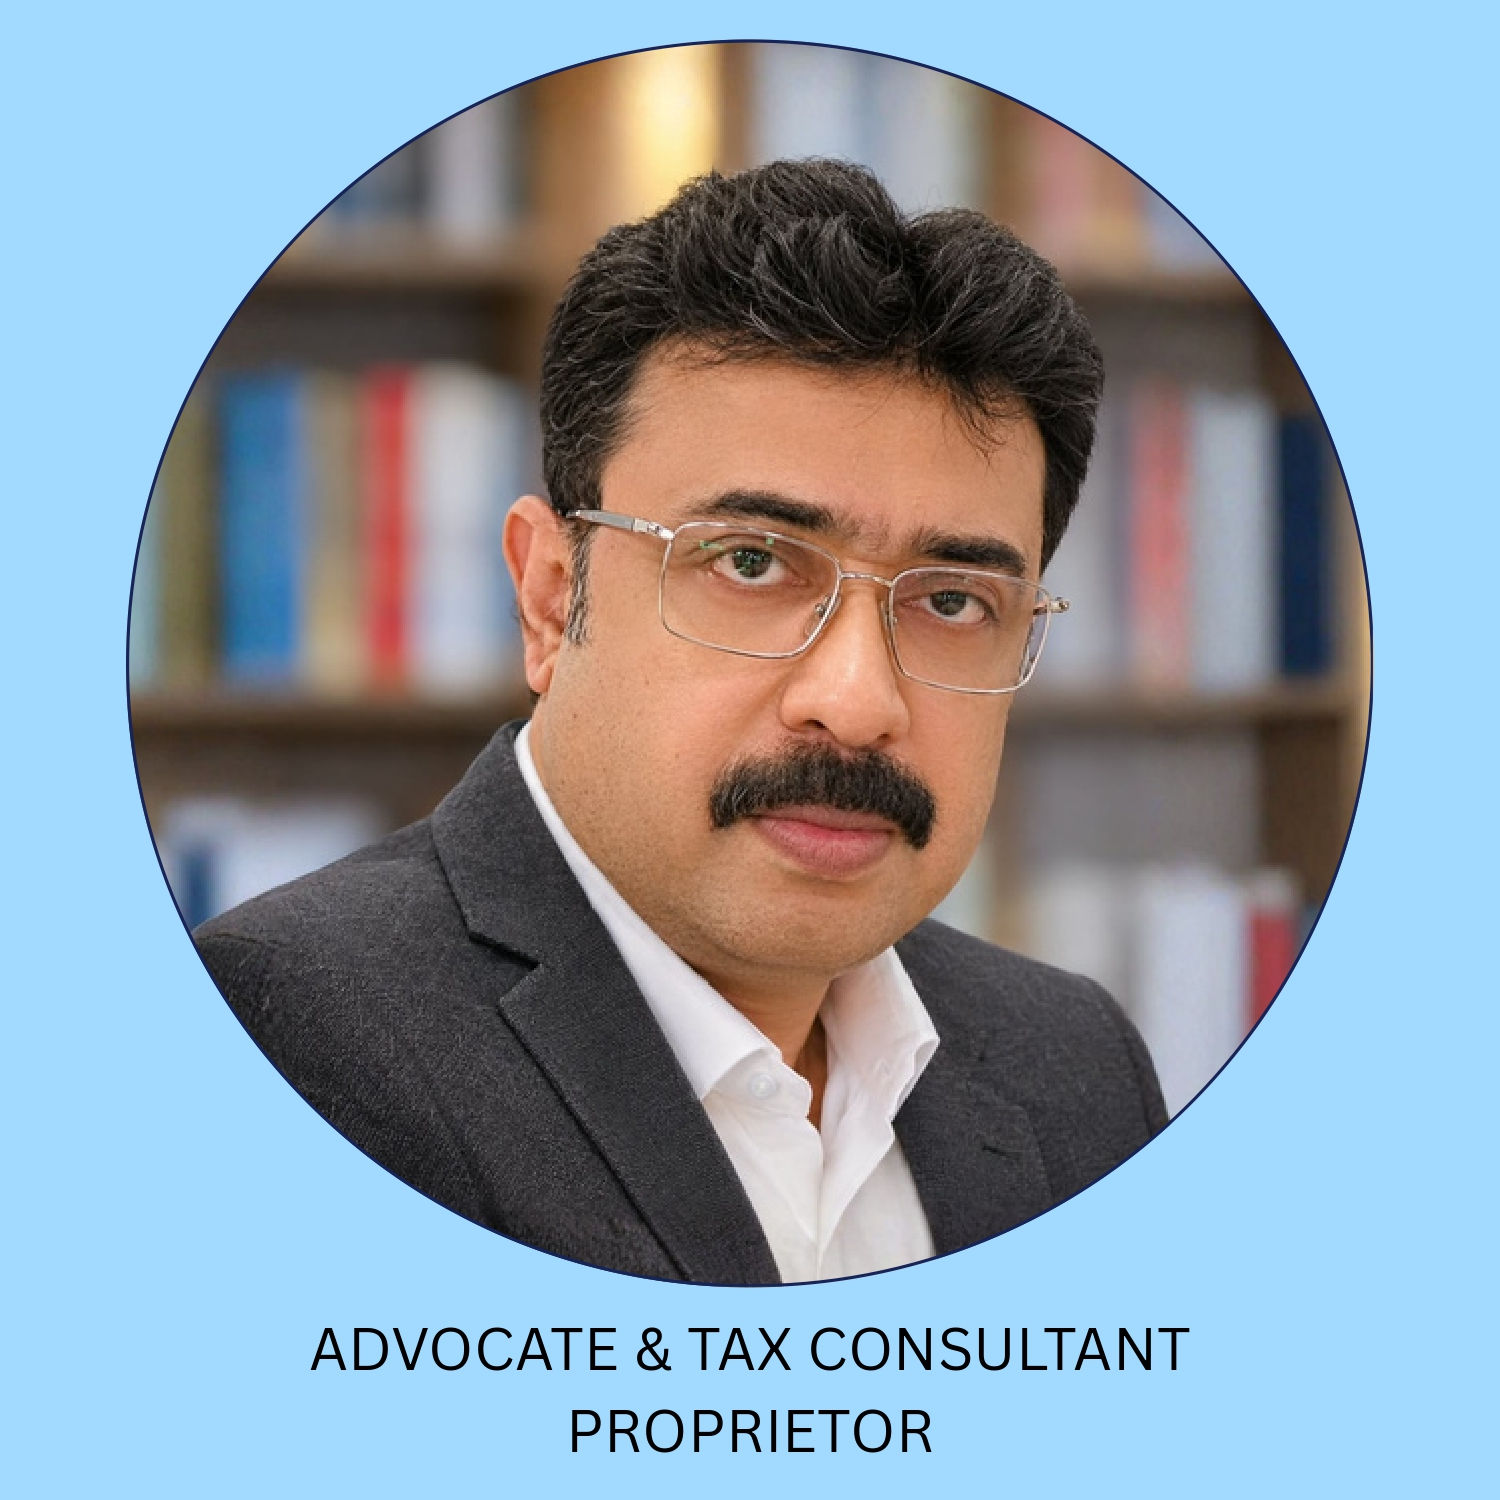
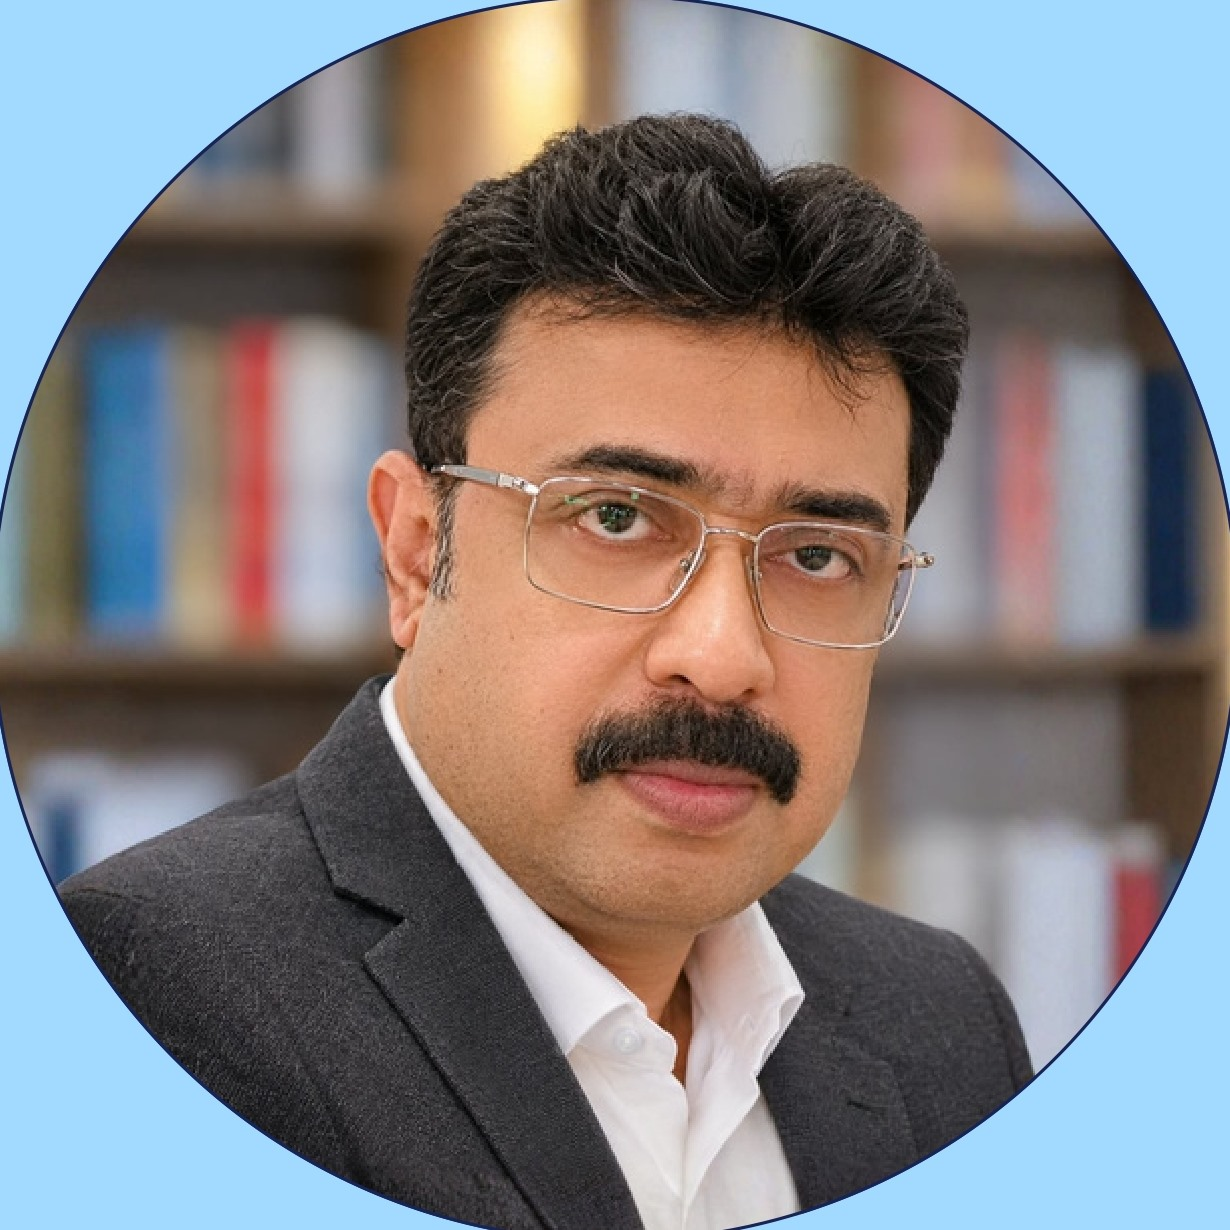
ok

diff --git a/src/components/site/fd-team.tsx b/src/components/site/fd-team.tsx
@@ -35,14 +35,14 @@ export function FutureDreamsTeam() {
             Financial &amp; Marketing Consultancy — Loans &middot; Taxation &middot; Investments
           </p>
         </div>
-        <ul className="mt-14 grid grid-cols-1 gap-6 sm:grid-cols-2 lg:grid-cols-3">
+        <ul className="mt-14 grid grid-cols-1 gap-6 sm:grid-cols-2 lg:grid-cols-4">
           {TEAM.map((member) => (
             <li
               key={member.name}
               className="group flex flex-col items-center rounded-sm border border-border bg-card px-6 py-10 text-center transition duration-300 hover:border-primary/60 hover:shadow-md"
             >
               {member.photo ? (
-                <div className="relative size-44 shrink-0 overflow-hidden rounded-full sm:size-52">
+                <div className="relative size-44 shrink-0 overflow-hidden rounded-full sm:size-48 lg:size-40 xl:size-48">
                   <img
                     src={member.photo}
                     alt={`Portrait of ${member.name}`}
@@ -53,7 +53,7 @@ export function FutureDreamsTeam() {
               ) : (
                 <div
                   aria-label={`Portrait of ${member.name} coming soon`}
-                  className="flex size-44 shrink-0 items-center justify-center rounded-full bg-secondary font-serif text-5xl text-primary sm:size-52"
+                  className="flex size-44 shrink-0 items-center justify-center rounded-full bg-secondary font-serif text-5xl text-primary sm:size-48 lg:size-40 xl:size-48"
                 >
                   {member.name
                     .split(" ")

diff --git a/src/routes/future-dreams.tsx b/src/routes/future-dreams.tsx
@@ -67,6 +67,7 @@ function FutureDreams() {
           ))}
         </ul>
       </section>
+      <FutureDreamsTeam />
       <section className="section wrap split-content">
         <div className="prose">
           <Reveal>
@@ -171,7 +172,6 @@ function FutureDreams() {
           </Reveal>
         </section>
       ))}
-      <FutureDreamsTeam />
       <section className="section faq-band">
         <div className="wrap">
           <Reveal>
